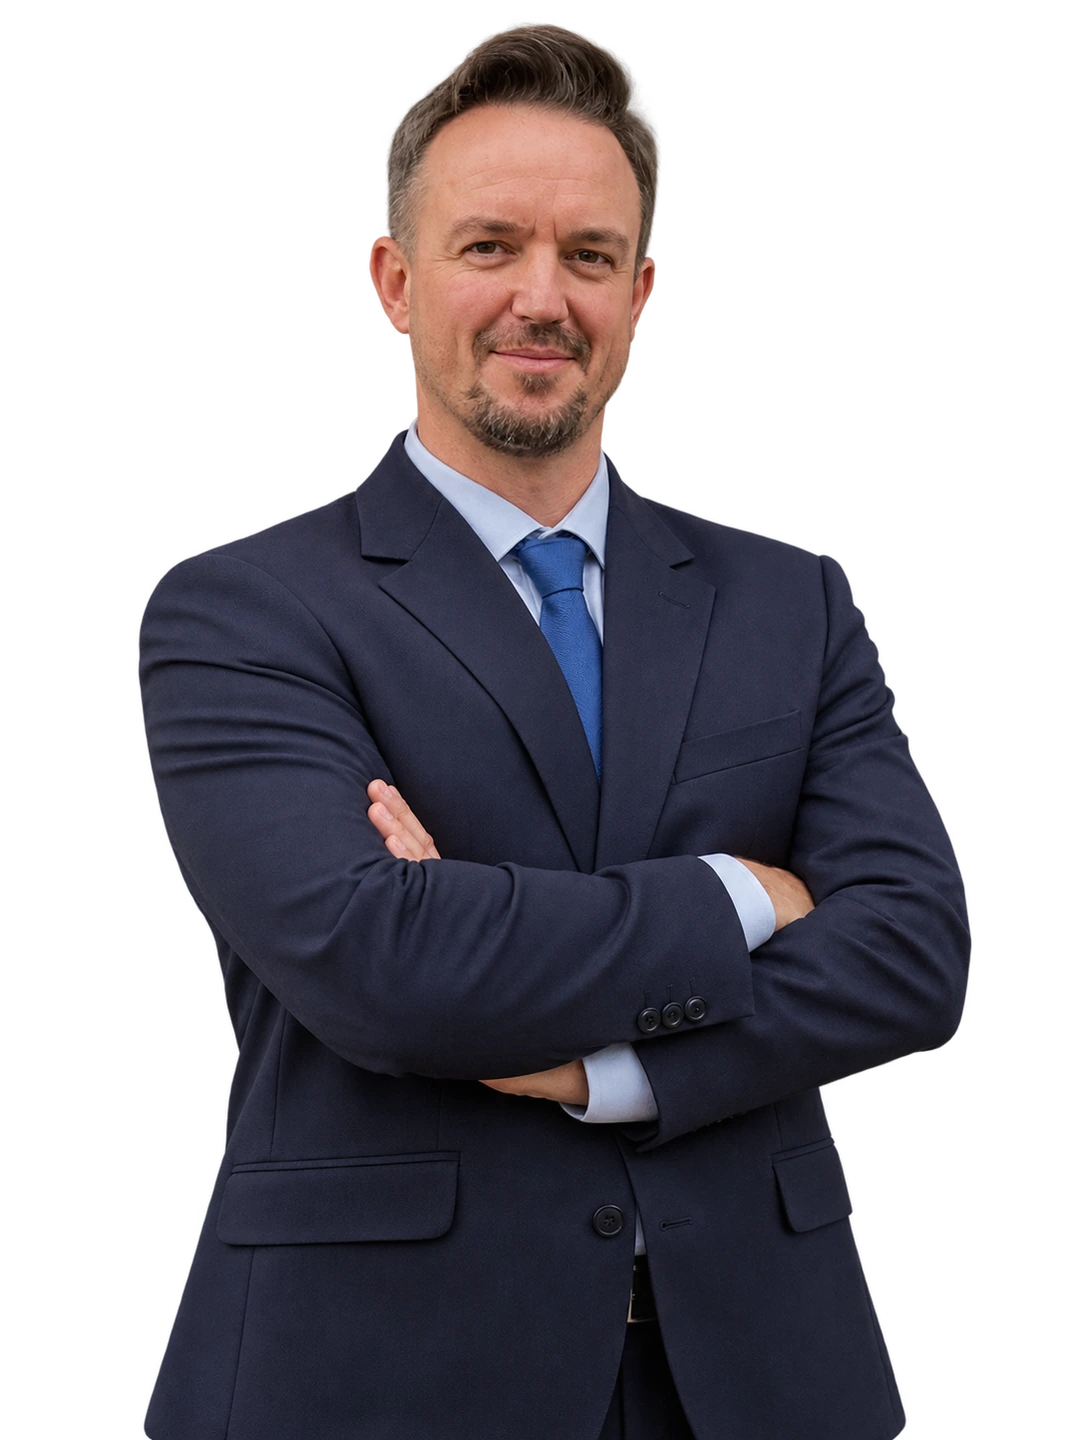
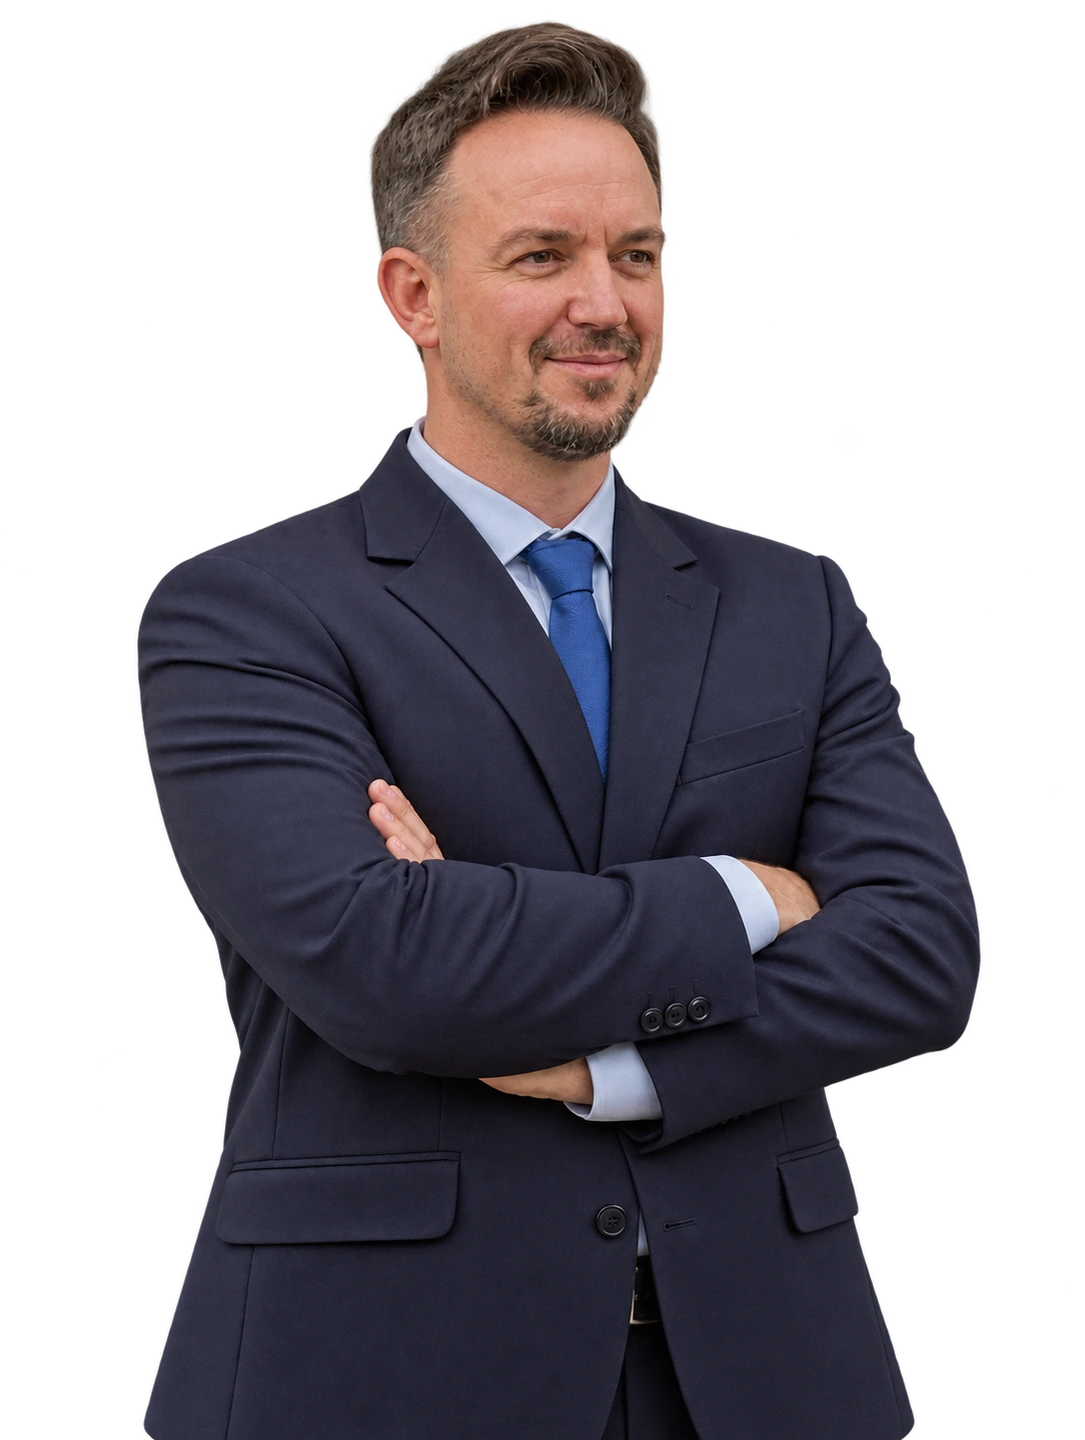
Match inward-facing founder portraits in complementary suits

diff --git a/specs/new-pages-quality.md b/specs/new-pages-quality.md
@@ -18,7 +18,7 @@ Kalkulačka zůstává výraznou samostatnou kartou s popsaným přínosem a obd
 
 ## Zakladatelé a firma
 
-Úprava fotografií z 11. listopadu 2026 používá ve sdílených kartách nové sladěné průhledné portréty `jiri-jahn-studio.webp` a `pavol-hejny-studio.webp`. Jiří má novou dodanou fotografii v modrém obleku; Pavol přirozeně retušovaný portrét bez konferenční visačky. Světlo, barevnost a měřítko jsou sjednocené, podoba obou zůstává zachovaná. Obě jazykové verze a marketingové podstránky používají stejnou dvojici.
+Úprava fotografií z 11. listopadu 2026 používá ve sdílených kartách sladěné průhledné portréty `jiri-jahn-studio.webp` a `pavol-hejny-studio.webp`. Navazující zadání obléká oba do obleků a otáčí je zrcadlově dovnitř: Jiří vlevo směřuje doprava, Pavol vpravo doleva. Jiří má modrý obchodní oblek s kravatou; Pavol antracitový oblek a modrou košili s otevřeným límcem bez kravaty pro technickou roli. Světlo, barevnost a měřítko jsou sjednocené, podoba obou zůstává zachovaná. Obě jazykové verze a marketingové podstránky používají stejnou dvojici.
 
 Pavol Hejný a Jiří Jahn jsou rovnocenní spoluzakladatelé. Oba mají stejnou vizuální prioritu, větší skutečný portrét, jméno, roli a ověřený e-mail/telefon. Jiřího jméno a role jsou na mobilu zarovnané doprava stejně jako kontakty. Jiří je vlevo od svého textu; Pavol vpravo od svého textu. Karty jsou zrcadlově uspořádané a spodní okraje portrétů lícují se spodní hranou karet. Jednoduchý nadpis „Kontakt“ nahrazuje větu „Za Promptbookem stojíme oba“. Pavol: technologie; Jiří: obchod. Jediné jméno v konfiguraci SLA nesmí znamenat jediného zakladatele na webu.
 

diff --git a/businesses/new/AGENTS.md b/businesses/new/AGENTS.md
@@ -20,7 +20,7 @@ Comparisons need primary sources and a review date. Do not deny competitors' aut
 
 Present both founders equally with larger, bottom-aligned cutout portraits and verified email/phone contacts. Jiří’s portrait is on the left of his text; Pavol’s portrait is on the right of his text. The cards mirror one another, and portraits meet the bottom edge of their cards. Use a simple contact heading instead of a promotional sentence.
 
-The 11 November portrait revision uses the matched `jiri-jahn-studio.webp` and `pavol-hejny-studio.webp` cutouts in the shared Founders cards. Jiří's source is the owner's new navy-suit photograph. Both retain their identity, have neutral soft lighting and clean transparent edges; Pavol's conference lanyard and badge are removed. Preserve this pair's consistent framing across both languages and all marketing placements.
+The 11 November portrait revision uses the matched `jiri-jahn-studio.webp` and `pavol-hejny-studio.webp` cutouts in the shared Founders cards. Jiří's source is the owner's new navy-suit photograph. The owner's follow-up puts both founders in suits with inward-facing three-quarter poses: Jiří on the left looks right, Pavol on the right looks left. Jiří wears a navy business suit and tie; Pavol wears a charcoal suit and open-collar blue shirt without a tie, reflecting their business and technology roles. Both retain their identity, have neutral soft lighting, clean transparent edges and consistent framing across both languages and all marketing placements.
 
 Keep specs, focused tests and public behavior aligned. Never submit test leads to the production contact database.
 
